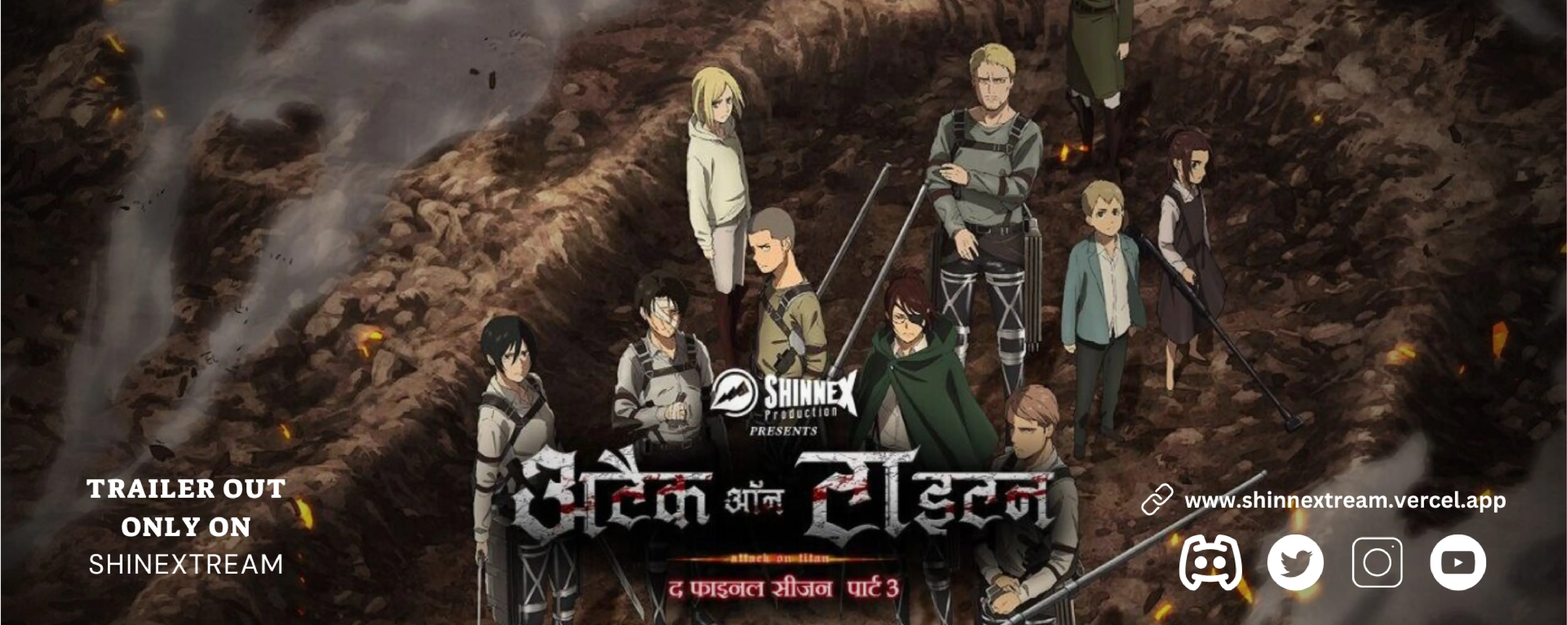
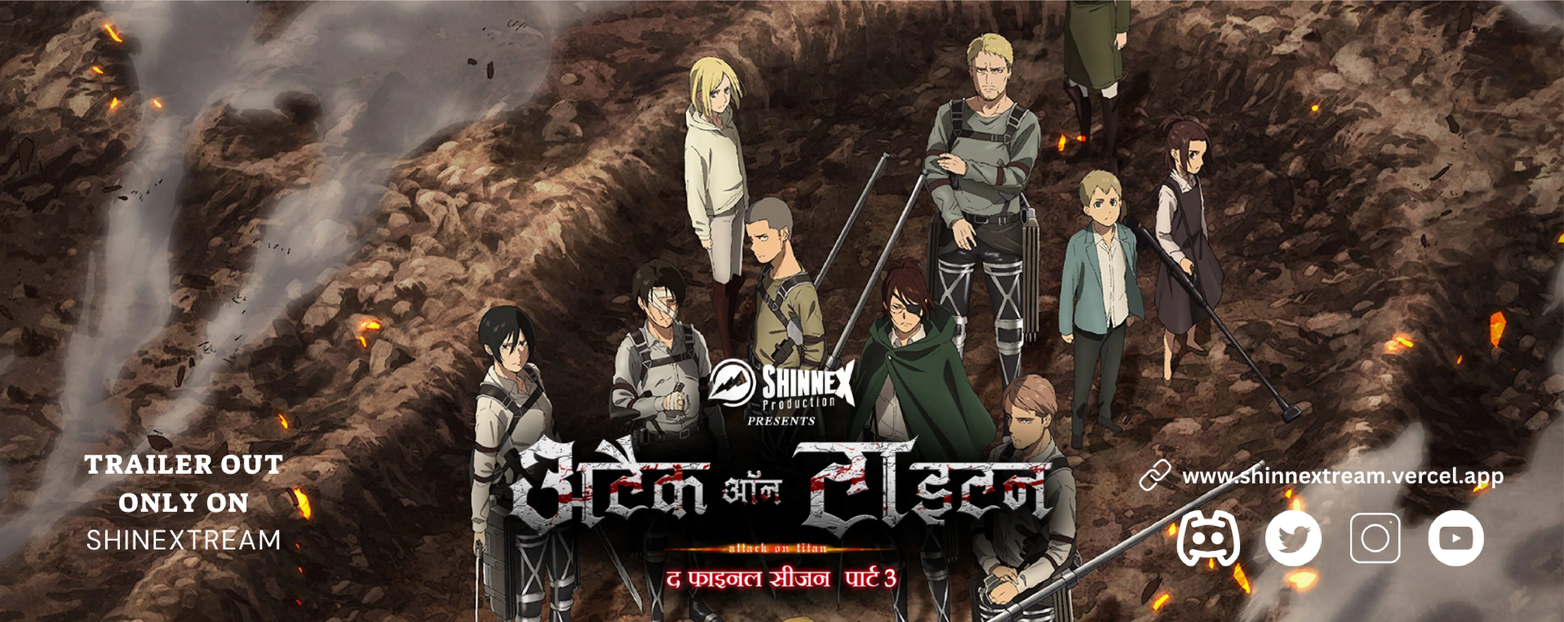
4

diff --git a/src/components/SXAOTTwo.js b/src/components/SXAOTTwo.js
@@ -11,14 +11,17 @@ const SXAOTTwo = () => {
           >
             OUR UPCOMING PROJECT
           </h3>
-        <div className="fn_cs_news">
+        <div className="fn_cs_news container">
           <div className="news_part">
             <div className="left_items">
               <div  className="blog__item">
-                      <img src="/img/shinnexBanner.webp" alt="" />
+                      <img src="/img/homeImage.webp" alt="AOT S-3 P-3 P-2" />
               </div>
             </div>
             
+          </div>
+          <div className="AOT2">
+            Attack On Titan Final Season Part 3 Part 2
           </div>
         </div>
       </div>

diff --git a/public/css/style.css b/public/css/style.css
@@ -7128,3 +7128,16 @@ a.metaportal_fn_videobutton:hover .fn__svg,
 		margin: 2rem 0;
 	}
 }
+
+.AOT2{
+	font-size: 2rem;
+	text-align: center;
+	margin: 0.5rem;
+	font-family:'Courier New', Courier, monospace;
+}
+@media(width<1000px){
+	.AOT2{
+		font-size: 15px;
+		margin: 0;
+	}
+}
